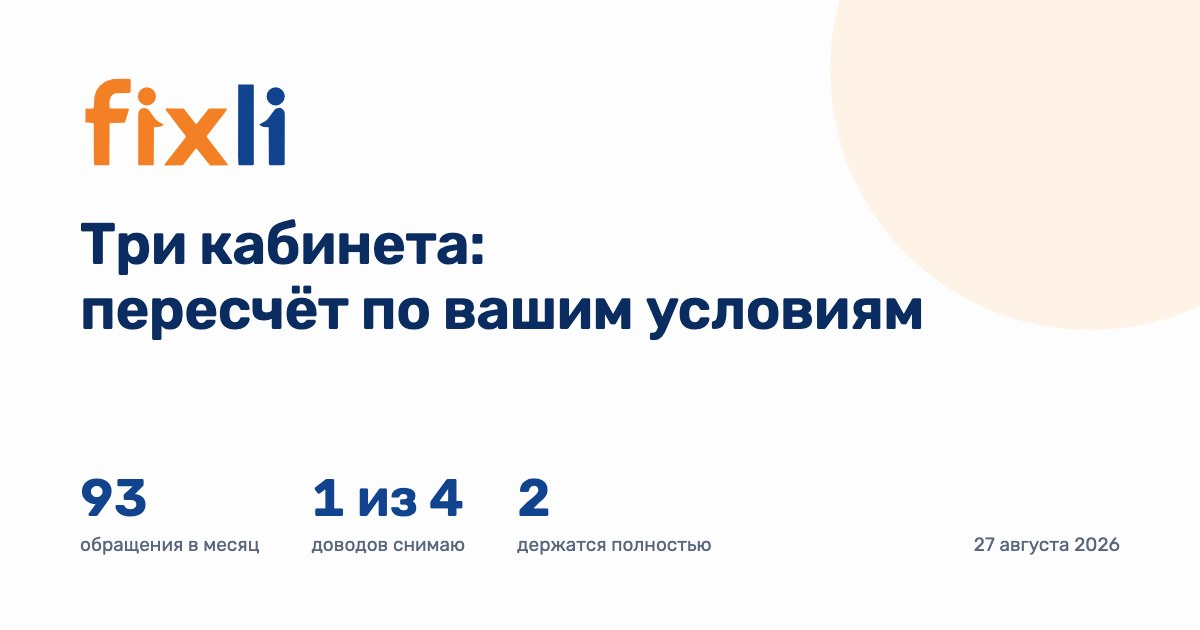
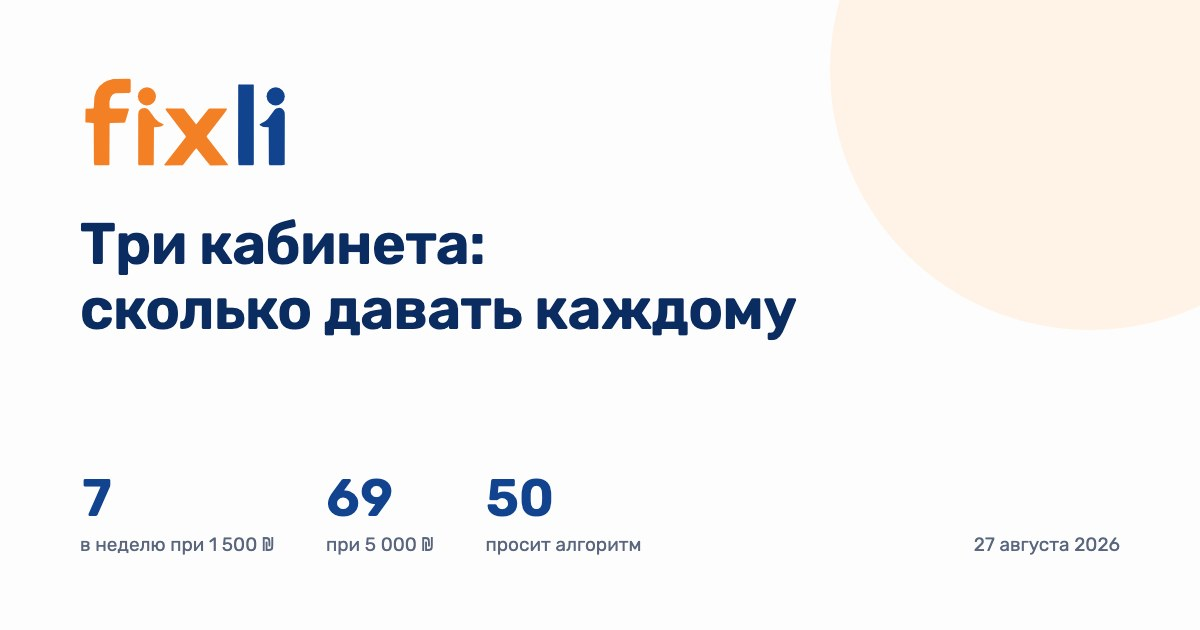
Три кабинета, третья редакция: страница сжата под отправленное сообщение
В чат ушёл короткий ответ: бюджет у каждого свой — правила меняются, роль
на этом этапе аналитик, а не третий таргетолог, и метка в коде объявления
покажет, кто кого привёл. Со страницы снято всё, чего в сообщении нет:
аукцион, владение, «что дают взамен», табло. Осталось два раздела —
сколько давать каждому и как видеть, кто привёл.

Телефон 8,6 → 3,9 экрана.

Changed region(s): [[0.0617, 0.4524, 0.7708, 0.5429], [0.0617, 0.754, 0.5858, 0.8746]]

diff --git a/status/136b452c6c/index.html b/status/136b452c6c/index.html
@@ -2,15 +2,15 @@
 <html lang="ru">
 <head>
 <meta charset="utf-8" />
-<title>Fixli — три кабинета: пересчёт по вашим условиям</title>
+<title>Fixli — три кабинета: сколько давать каждому и как видеть, кто привёл</title>
 <meta name="viewport" content="width=device-width, initial-scale=1" />
-<meta name="description" content="Пересчёт после уточнения: бюджет не делится, а добавляется. Один довод снимаю, два держатся — и оба про то, как понять, кто привёл клиента. Плюс готовый способ разделить подрядчиков в одном кабинете." />
+<meta name="description" content="Бюджет у каждого свой — довод про делёный бюджет снят. Осталось два вопроса: сколько давать каждому, чтобы сравнение имело смысл, и как видеть, кто привёл клиента." />
 <meta name="googlebot" content="noindex, nofollow, noarchive" />
 <meta name="bingbot" content="noindex, nofollow, noarchive" />
 <meta name="yandex" content="noindex, nofollow" />
 <meta property="og:type" content="website" />
-<meta property="og:title" content="Три кабинета: пересчёт по вашим условиям" />
-<meta property="og:description" content="Бюджет не делится — пересчитал по четырём сценариям. Что снимаю, что держится и как разделить подрядчиков внутри одного кабинета." />
+<meta property="og:title" content="Три кабинета: сколько давать каждому" />
+<meta property="og:description" content="Бюджет у каждого свой — это меняет правила. Два вопроса: сколько давать каждому и как видеть, кто привёл клиента." />
 <meta property="og:url" content="https://docs.fixlihome.co.il/status/136b452c6c/" />
 <meta property="og:image" content="https://docs.fixlihome.co.il/status/136b452c6c/og-card.jpg" />
 <meta name="twitter:card" content="summary_large_image" />
@@ -54,29 +54,7 @@
   b { color: var(--навигация-тёмная); }
   .сноска { font-size: 14px; color: var(--серый-текст); }
 
-  /* табло крупных чисел */
-  .табло { display: grid; grid-template-columns: repeat(4, 1fr); gap: 12px; margin: 22px 0 6px; }
-  @media (max-width: 780px) { .табло { grid-template-columns: repeat(2, 1fr); } }
-  .плитка { background: var(--туман); border: 1px solid var(--линия);
-    border-radius: 14px; padding: 15px 16px; }
-  .плитка-число { margin: 0 0 2px; font-size: 30px; line-height: 1.1; font-weight: 800;
-    color: var(--навигация-тёмная); font-variant-numeric: tabular-nums; }
-  .плитка-имя { margin: 0 0 4px; font-weight: 700; font-size: 15px; color: var(--навигация); }
-  .плитка-пояснение { margin: 0; font-size: 13.5px; color: var(--серый-текст); line-height: 1.42; }
-  .плитка--акцент { background: #fff6ee; border-color: #f5cfa8; }
-  .плитка--акцент .плитка-число { color: var(--оранжевый-текст); }
 
-  /* два кадра рядом */
-  .пара { display: grid; grid-template-columns: 1fr 1fr; gap: 18px; margin: 20px 0 6px; }
-  @media (max-width: 700px) { .пара { grid-template-columns: 1fr; } }
-  .кадр { margin: 0; border: 1px solid var(--линия); border-radius: 16px;
-    padding: 14px 16px 4px; background: var(--фон); }
-  .кадр svg { display: block; width: 100%; height: auto; }
-  .кадр-имя { font-weight: 700; font-size: 14px; letter-spacing: .02em;
-    text-transform: uppercase; margin: 0 0 6px; }
-  .кадр-имя--нет { color: var(--серый-текст); }
-  .кадр-имя--да { color: var(--оранжевый-текст); }
-  .кадр-текст { margin: 6px 0 12px; font-size: 15px; color: var(--текст-мягкий); line-height: 1.5; }
   /* колонки против порога обучения */
   .стройка { margin: 22px 0 10px; }
   .порог-имя { margin: 0 0 8px; font-size: 14px; font-weight: 700;
@@ -119,21 +97,6 @@
   .диап--оранж, .точка--оранж { background: var(--оранжевый); }
   .точка { opacity: 1; }
 
-  /* подписи внутри svg */
-  .в-подпись { font: 700 15px -apple-system, BlinkMacSystemFont, "Segoe UI", Roboto, Arial, sans-serif;
-    fill: #06182f; }
-  .в-число { font: 800 21px -apple-system, BlinkMacSystemFont, "Segoe UI", Roboto, Arial, sans-serif;
-    fill: #06182f; }
-  .в-мелко { font: 800 20px -apple-system, BlinkMacSystemFont, "Segoe UI", Roboto, Arial, sans-serif;
-    fill: #ffffff; }
-  .в-мелко-с { font: 400 13px -apple-system, BlinkMacSystemFont, "Segoe UI", Roboto, Arial, sans-serif;
-    fill: #55606d; }
-  .в-ставка { font: 700 13px -apple-system, BlinkMacSystemFont, "Segoe UI", Roboto, Arial, sans-serif;
-    fill: #12438f; }
-  .в-порог { font: 700 13.5px -apple-system, BlinkMacSystemFont, "Segoe UI", Roboto, Arial, sans-serif;
-    fill: #b5540b; }
-  .в-зона { font: 700 13.5px -apple-system, BlinkMacSystemFont, "Segoe UI", Roboto, Arial, sans-serif;
-    fill: #7a5406; }
 
   /* сценарии строками. Таблицей это было и снято: пять колонок не влезают
      в телефон, и за краем оставался последний столбец — тот самый, ради
@@ -167,10 +130,6 @@
   .имена--4 .стб-имя { font-size: 13.5px; }
   .имена--4 .стб-имя span { font-size: 11.5px; }
 
-  /* врез */
-  .врез { background: var(--жёлтый-фон); border: 1px solid #e8c98a; border-radius: 16px;
-    padding: 16px 18px 6px; margin: 18px 0 8px; }
-  .врез h2 { font-size: 19px; margin-bottom: 8px; }
 
   footer { margin-top: 30px; border-top: 1px solid var(--линия); padding: 22px 0 34px;
     color: var(--серый-текст); font-size: 14px; }
@@ -212,59 +171,19 @@
   />
   <circle id="i2-dot" cx="406.28" cy="46.37" r="18.89" fill="#12438f" />
 </svg>
-    <h1>Три кабинета: пересчёт по вашим условиям</h1>
-    <p class="лид">Условие оказалось другим, чем я считал: бюджет не делится, а
-    добавляется — каждому подрядчику своя сумма. Пересчитал. <b>Один свой довод
-    снимаю</b>, два держатся — и оба про то, о чём вы написали сами: как понять,
-    кто привёл клиента. Ниже пересчёт и готовый способ это разделить.</p>
-    <p class="дата">27 августа 2026, вторая редакция · страница открывается только
-    по этой ссылке</p>
+    <h1>Три кабинета: сколько давать и кто кого привёл</h1>
+    <p class="лид">Бюджет у каждого свой — это меняет правила, и довод про делёный
+    бюджет я снимаю. Осталось два практических вопроса.</p>
+    <p class="дата">27 августа 2026 · страница открывается только по этой ссылке</p>
   </div>
 </header>
 
 <section>
   <div class="полоса">
-    <div class="табло">
-      <div class="плитка">
-        <p class="плитка-число">93</p>
-        <p class="плитка-имя">обращения в месяц</p>
-        <p class="плитка-пояснение">столько даёт реклама сейчас — 158 ₪ в день,
-        по 51 ₪ за человека</p>
-      </div>
-      <div class="плитка плитка--акцент">
-        <p class="плитка-число">1 из 4</p>
-        <p class="плитка-имя">доводов снимаю</p>
-        <p class="плитка-пояснение">тот, что бюджет делится на три. Он был неверен</p>
-      </div>
-      <div class="плитка">
-        <p class="плитка-число">2</p>
-        <p class="плитка-имя">держатся полностью</p>
-        <p class="плитка-пояснение">аукцион и то, что заказов в кабинете не видно —
-        второе вы назвали сами</p>
-      </div>
-      <div class="плитка">
-        <p class="плитка-число">1</p>
-        <p class="плитка-имя">зависит от двух цифр</p>
-        <p class="плитка-пояснение">выйдут ли кабинеты из обучения — считаю ниже
-        по четырём сценариям</p>
-      </div>
-    </div>
-  </div>
-</section>
-
-<section>
-  <div class="полоса">
-    <h2>Что снимаю: бюджет не делится</h2>
-    <p>Я считал, что 4 741 ₪ разъедутся на три кабинета, и получал по
-    <b>7 обращений в неделю</b> каждому. Условие другое: каждому даётся своя сумма,
-    а не доля общей. Довод неверен, и он был у меня вторым по весу — снимаю его
-    целиком.</p>
-    <p>Но у следующего вопроса — «хватит ли этого, чтобы алгоритм перестал гадать» —
-    в вашем сообщении <b>две разные цифры бюджета</b>: «каждому пятёрка в месяц»
-    и «влить отдельно ещё две с половиной — три тысячи» на двух новых. Плюс две цены
-    обращения: наша замеренная 51 ₪ и обещанные подрядчиками 17 ₪. Это четыре
-    сценария, и они дают разные ответы — поэтому считаю по всем, а не выбираю
-    удобный.</p>
+    <h2>Сколько давать каждому</h2>
+    <p class="подпись">Я считал, что общий бюджет разъедется на три. Раз у каждого
+    своя сумма — довод снимаю. Но размер суммы решает, будет ли по итогам трёх
+    недель что сравнивать.</p>
     
 <div class="стройка">
   <p class="порог-имя">Порог Meta — 50 событий в неделю.
@@ -275,167 +194,75 @@
   </div>
   <div class="имена имена--4"><p class="стб-имя">1 500 ₪<span>по 51 ₪ за обращение</span></p><p class="стб-имя">1 500 ₪<span>по 17 ₪ за обращение</span></p><p class="стб-имя">5 000 ₪<span>по 51 ₪ за обращение</span></p><p class="стб-имя">5 000 ₪<span>по 17 ₪ за обращение</span></p></div>
 </div>
-    <p>Порог берётся <b>ровно в одном углу из четырёх</b>: 5 000 ₪ при обещанных
-    17 ₪ за обращение. Если их 17 ₪ окажутся правдой, мой довод про обучение
-    отваливается тоже. Если ближе к нашим 51 ₪ — кабинеты будут работать
-    в самом дорогом режиме все три недели.</p>
-  </div>
-</section>
-
-<section>
-  <div class="полоса">
-    <h2>Что тест сможет различить</h2>
-    <p class="подпись">И это ответ на главный вопрос: по итогам трёх недель мы
-    увидим разницу — или разброс?</p>
+    <p class="сноска">Порог берётся <b>ровно в одном углу из четырёх</b>: 5 000 ₪
+    при обещанных ими 17 ₪ за обращение. Ближе к нашей замеренной 51 ₪ —
+    и кабинеты все три недели работают в самом дорогом режиме.</p>
     <div class="сценарии">
   <div class="сцен сцен--нет">
-    <p class="сцен-как"><b>1 500 ₪</b> на кабинет в месяц ·
-    обращение по <b>51 ₪</b> <span>(наша)</span></p>
-    <p class="сцен-поток">7
-    обращений в неделю ·
-    21 обращение
-    за три недели · обучение не набирается</p>
+    <p class="сцен-как"><b>1 500 ₪</b> на кабинет ·
+    обращение по <b>51 ₪</b> <span>(наша)</span> ·
+    <span>21
+    обращение за три недели</span></p>
     <p class="сцен-вывод">Различит разницу <b>от 62 %</b> —
     победит случай, а не работа</p>
   </div>
   <div class="сцен сцен--может">
-    <p class="сцен-как"><b>1 500 ₪</b> на кабинет в месяц ·
-    обращение по <b>17 ₪</b> <span>(обещанная подрядчиками)</span></p>
-    <p class="сцен-поток">21
-    обращение в неделю ·
-    62 обращения
-    за три недели · обучение не набирается</p>
+    <p class="сцен-как"><b>1 500 ₪</b> на кабинет ·
+    обращение по <b>17 ₪</b> <span>(обещанная подрядчиками)</span> ·
+    <span>62
+    обращения за три недели</span></p>
     <p class="сцен-вывод">Различит разницу <b>от 36 %</b> —
     разницу вдвое увидим, в четверть — нет</p>
   </div>
   <div class="сцен сцен--может">
-    <p class="сцен-как"><b>5 000 ₪</b> на кабинет в месяц ·
-    обращение по <b>51 ₪</b> <span>(наша)</span></p>
-    <p class="сцен-поток">23
-    обращения в неделю ·
-    69 обращений
-    за три недели · обучение не набирается</p>
+    <p class="сцен-как"><b>5 000 ₪</b> на кабинет ·
+    обращение по <b>51 ₪</b> <span>(наша)</span> ·
+    <span>69
+    обращений за три недели</span></p>
     <p class="сцен-вывод">Различит разницу <b>от 34 %</b> —
     разницу вдвое увидим, в четверть — нет</p>
   </div>
   <div class="сцен сцен--да">
-    <p class="сцен-как"><b>5 000 ₪</b> на кабинет в месяц ·
-    обращение по <b>17 ₪</b> <span>(обещанная подрядчиками)</span></p>
-    <p class="сцен-поток">69
-    обращений в неделю ·
-    206 обращений
-    за три недели · выходит из обучения</p>
+    <p class="сцен-как"><b>5 000 ₪</b> на кабинет ·
+    обращение по <b>17 ₪</b> <span>(обещанная подрядчиками)</span> ·
+    <span>206
+    обращений за три недели</span></p>
     <p class="сцен-вывод">Различит разницу <b>от 20 %</b> —
     тест честный: слабого видно уже по разнице в пятую часть</p>
   </div>
 </div>
-    <p>Читается так: <b>в нижнем углу победит случай</b> — при 21 обращении разница
-    меньше чем в полтора раза неотличима от разброса, а победитель всё равно
-    объявится, потому что одно из трёх чисел окажется меньше. В верхнем углу тест
-    честный: слабого видно уже по разнице в пятую часть.</p>
-    <p>Практический вывод из этих четырёх строк, а не из моего мнения: <b>чем меньше даёте
-    каждому, тем меньше смысла в самом сравнении.</b> Двое по 2 500 ₪ дадут более
-    надёжный ответ, чем трое по 1 500.</p>
+    <p><b>Вывод один и он практический: чем меньше даёте каждому, тем меньше смысла
+    в самом сравнении.</b> Двое по 2 500 ₪ дадут более надёжный ответ, чем трое
+    по 1 500: в нижнем углу победитель объявится, но это будет разброс, а не
+    работа.</p>
   </div>
 </section>
 
 <section>
   <div class="полоса">
-    <h2>Что держится: три кабинета торгуются друг с другом</h2>
-    <p class="подпись">И становится дороже именно потому, что денег добавляется.</p>
-    
-<div class="пара">
-  <figure class="кадр">
-    <figcaption class="кадр-имя кадр-имя--нет">Как это звучит</figcaption>
-    <svg viewBox="0 0 344 166" role="img" aria-label="Три отдельных круга: как будто спроса стало втрое больше">
-      <g><circle cx="72" cy="74" r="45" fill="#f38025" opacity="0.9"/><text x="72" y="150" class="в-подпись" text-anchor="middle">кабинет 1</text></g><g><circle cx="172" cy="74" r="45" fill="#f38025" opacity="0.9"/><text x="172" y="150" class="в-подпись" text-anchor="middle">кабинет 2</text></g><g><circle cx="272" cy="74" r="45" fill="#f38025" opacity="0.9"/><text x="272" y="150" class="в-подпись" text-anchor="middle">кабинет 3</text></g>
-    </svg>
-    <p class="кадр-текст">Три кабинета — как будто три разных рынка.</p>
-  </figure>
-  <figure class="кадр">
-    <figcaption class="кадр-имя кадр-имя--да">Как это работает</figcaption>
-    <svg viewBox="0 0 344 232" role="img" aria-label="Один круг спроса, поделённый на три, и три ставки в одном аукционе">
-      <defs>
-        <marker id="острие" viewBox="0 0 10 10" refX="8" refY="5"
-                markerWidth="6" markerHeight="6" orient="auto-start-reverse">
-          <path d="M0,0 L10,5 L0,10 z" fill="#12438f"/>
-        </marker>
-      </defs>
-      <path d="M160.0,132.0 L160.0,40.0 A92,92 0 0 1 239.7,178.0 Z" fill="#f38025" stroke="#ffffff" stroke-width="3"/><path d="M160.0,132.0 L239.7,178.0 A92,92 0 0 1 80.3,178.0 Z" fill="#f7a55f" stroke="#ffffff" stroke-width="3"/><path d="M160.0,132.0 L80.3,178.0 A92,92 0 0 1 160.0,40.0 Z" fill="#fbc99b" stroke="#ffffff" stroke-width="3"/><g><line x1="160" y1="30" x2="160" y2="40" stroke="#12438f" stroke-width="2.5" marker-end="url(#острие)"/><text x="160" y="20" class="в-ставка" text-anchor="middle">ставка</text></g><g><line x1="287" y1="205" x2="250" y2="178" stroke="#12438f" stroke-width="2.5" marker-end="url(#острие)"/><text x="300" y="216" class="в-ставка" text-anchor="end">ставка</text></g><g><line x1="33" y1="205" x2="70" y2="178" stroke="#12438f" stroke-width="2.5" marker-end="url(#острие)"/><text x="20" y="216" class="в-ставка" text-anchor="start">ставка</text></g>
-    </svg>
-    <p class="кадр-текст">Рынок один, и три кабинета <b>торгуются за него
-    друг с другом</b> — теми же деньгами компании.</p>
-  </figure>
-</div>
-    <p>Люди те же: перевозки, центр Израиля, тот же месяц. Главная кампания уже
-    показывается каждому охваченному человеку <b>3 раза</b> — верхняя
-    граница нормы. Внутри одного кабинета Meta не даёт нашим объявлениям
-    соревноваться между собой; <b>между разными кабинетами такой защиты нет</b> —
-    для аукциона это три разных рекламодателя.</p>
-    <p class="сноска">Проверяется одним числом, и проверить надо обязательно: цена
-    тысячи показов у нас три года стоит на месте — 2024 — 26,70 ₪ · 2025 — 26,59 ₪ · 2026 — 25,67 ₪. Если после запуска она
-    пойдёт вверх, значит часть новых денег ушла на то, чтобы перебить свою же
-    ставку. Это видно на второй неделе, а не через квартал.</p>
-  </div>
-</section>
-
-<section>
-  <div class="полоса">
-    <div class="врез">
-      <h2>И ещё одно, про владение</h2>
-      <p>Кабинет, созданный в личном профиле человека, уходит вместе с ним: история,
-      накопленное обучение, настройки. То есть через три недели у компании может
-      остаться Страница и ни одного из трёх накопленных наборов данных. У нас так
-      и сейчас — рабочий кабинет личный.</p>
-    </div>
-  </div>
-</section>
-
-<section>
-  <div class="полоса">
-    <h2>Что держится целиком — и это вы назвали сами</h2>
-    <p>«Нельзя понять, от кого какие клиенты» — да, и это не лечится количеством
-    кабинетов. Все они ведут в один WhatsApp и одни входящие Страницы. Кабинет умеет
-    считать начатые переписки; сколько из них стали заказами, не знает ни кабинет,
-    ни система: за месяц <b>107 контактов → сколько заказов, не скажет
-    никто</b>.</p>
-    <p>Почему это важнее цены обращения: <b>обращение по 40 ₪, из которого не выходит
-    заказ, дороже обращения по 60 ₪, из которого заказ выходит.</b> А обещанные 17 ₪
-    сравнить с нашими 51 ₪ по деньгам сегодня физически нечем.</p>
-    <p><b>Разные номера для этого не годятся</b>, хотя мысль правильная. Номер
-    у компании один, он же напечатан на визитке, в рекламе и в карточках каталогов;
-    второй номер означает вторую точку входа, за которой никто не следит, и разошедшуюся
-    историю переписок. Разделять надо метку, а не канал.</p>
-  </div>
-</section>
-
-<section>
-  <div class="полоса">
-    <h2>Как разделить внутри одного кабинета</h2>
-    <p class="подпись">Ровно то, о чём вы написали: «организовать всё в рамках одного
-    кабинета… как-то всё пометить». Механика у нас уже есть, нужен формат — вот он.</p>
+    <h2>Как видеть, кто привёл клиента</h2>
+    <p class="подпись">Мысль верная, и это единственное, без чего аналитика не
+    состоится: кабинет считает переписки, а сколько из них стали заказами, не
+    знает ни он, ни система — за месяц 107 контактов и ни одного
+    приписанного заказа.</p>
     <ol class="правила">
       <li><b>Буква исполнителя внутри кода объявления.</b> Формат кодов в проекте
       уже принят — <code>2026-08-moving-ru-01</code>. Добавляется одна буква:
       <code>2026-08-<b>A</b>-moving-ru-01</code>. Буквы, а не имена: у кодов долгая
       жизнь, а состав подрядчиков меняется.</li>
-      <li><b>Код едет в первое сообщение клиента.</b> В объявлениях Click to WhatsApp
-      задаётся текст, который подставляется человеку в поле ввода. Ставим туда
-      <code>#2026-08-A-moving-ru-01</code> — и в чате сразу видно, чьё объявление
-      привело. Клиент дописывает своё, код остаётся первой строкой.</li>
-      <li><b>Часть трафика — на сайт, там учёт точный и без рук.</b> Ссылка с меткой,
-      заявка приезжает в базу с кодом сама. Это единственное место, где атрибуция
-      не зависит от того, стёр человек подставленный текст или нет.</li>
-      <li><b>Отчёт уже собирается — доделывать почти нечего.</b> В панели есть экран,
-      который складывает по коду объявления обращения, заказы и деньги. То есть после
-      разметки на вопрос «кто из трёх привёл заказы» отвечает экран, а не спор.
-      С меня — подытог по букве исполнителя.</li>
+      <li><b>Тот же код — в первое сообщение клиента.</b> В объявлениях
+      Click to WhatsApp задаётся текст, который подставляется человеку в поле
+      ввода. Ставим
+      туда <code>#2026-08-A-moving-ru-01</code> — и в чате сразу видно, чьё
+      объявление привело. Клиент дописывает своё, код остаётся первой строкой.</li>
       <li><b>Объявление без кода не запускается.</b> Одно исключение на три недели
-      обнуляет весь замер: обращение без метки не приписать никому.</li>
+      обнуляет весь замер: обращение без метки не приписать никому. Отчёт, который
+      складывает по коду объявления обращения, заказы и деньги, в панели уже есть.</li>
     </ol>
     <p class="сноска">Чего этот способ не даёт: доли людей, которые стирают
-    подставленный текст и пишут своё. Она неизвестна, и мерить её будем по первой
-    неделе — сравнив обращения с кодом и обращения из тех же дней без кода.</p>
+    подставленный текст и пишут своё. Она неизвестна, и померить её можно по первой
+    неделе — сравнив обращения с кодом и обращения из тех же дней без кода. Точный
+    учёт без рук есть только у трафика на сайт: там метка приезжает в базу сама.</p>
   </div>
 </section>
 
